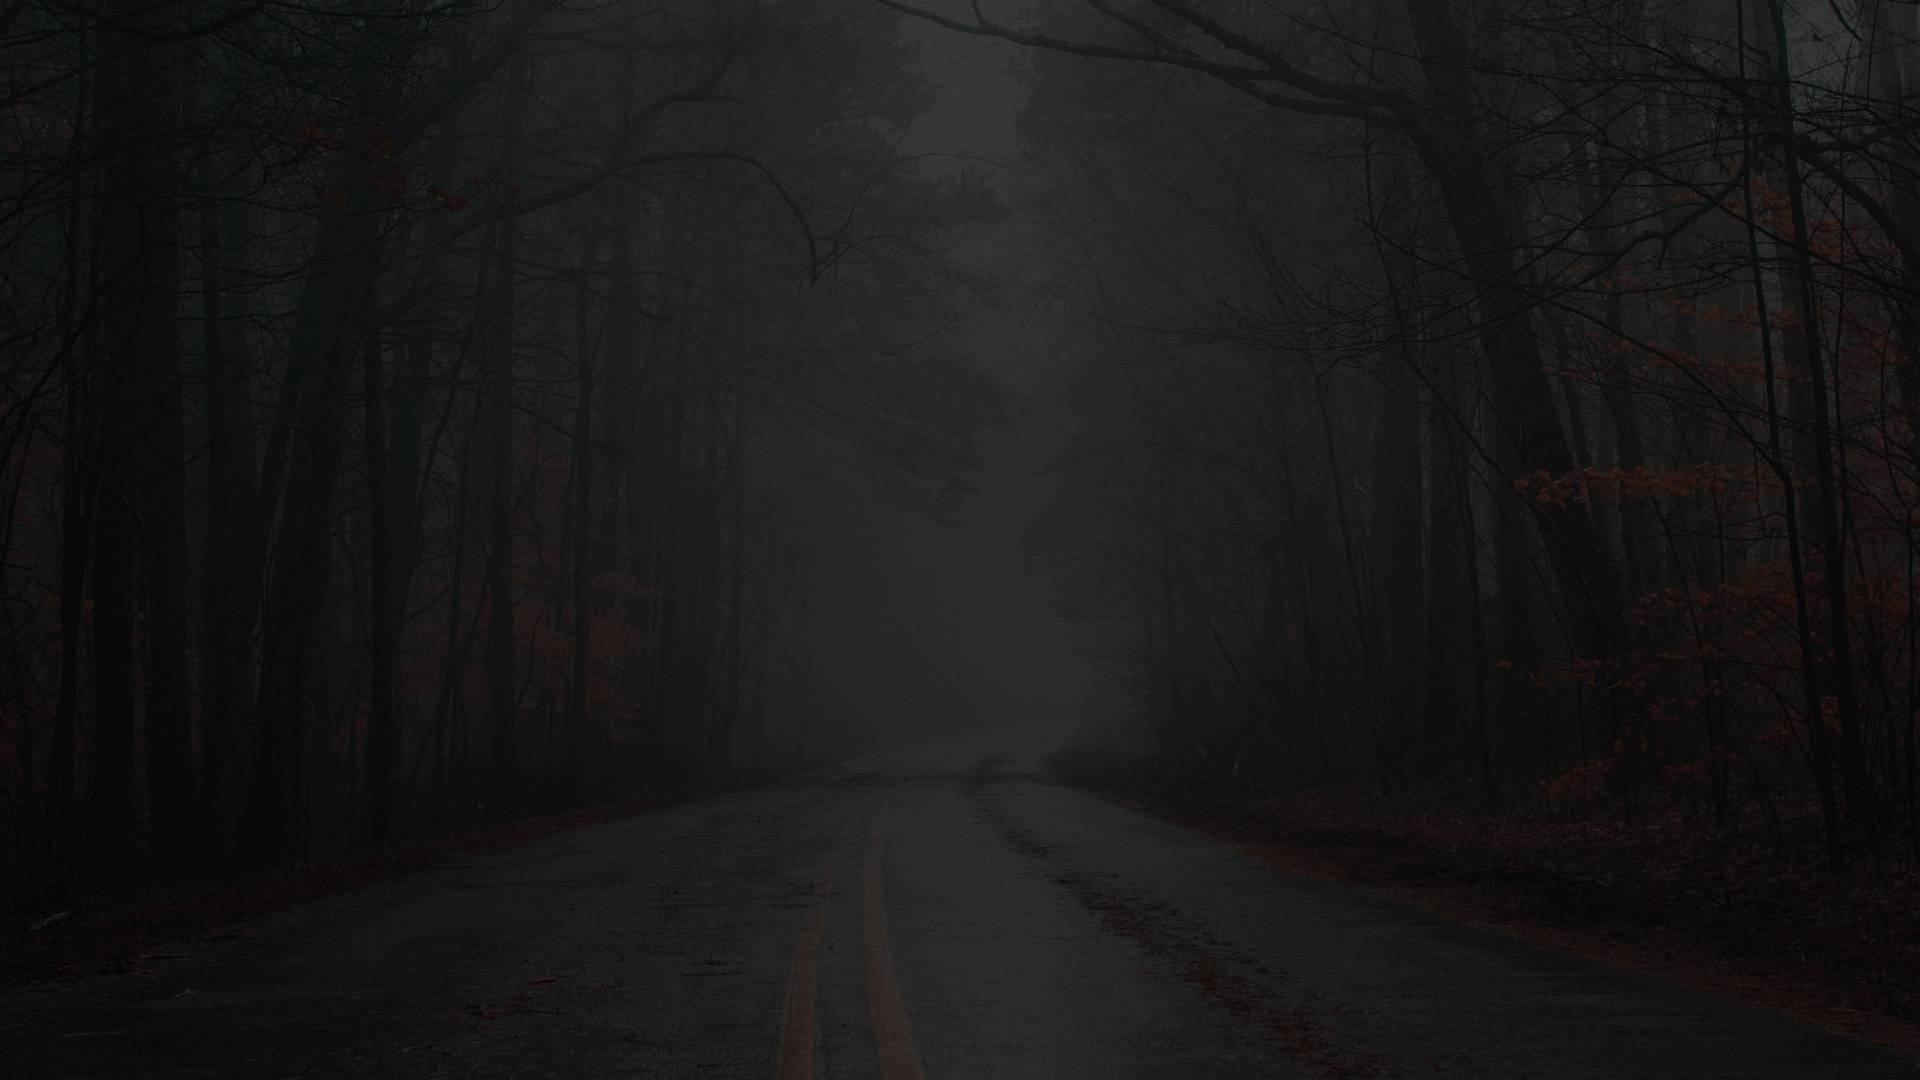
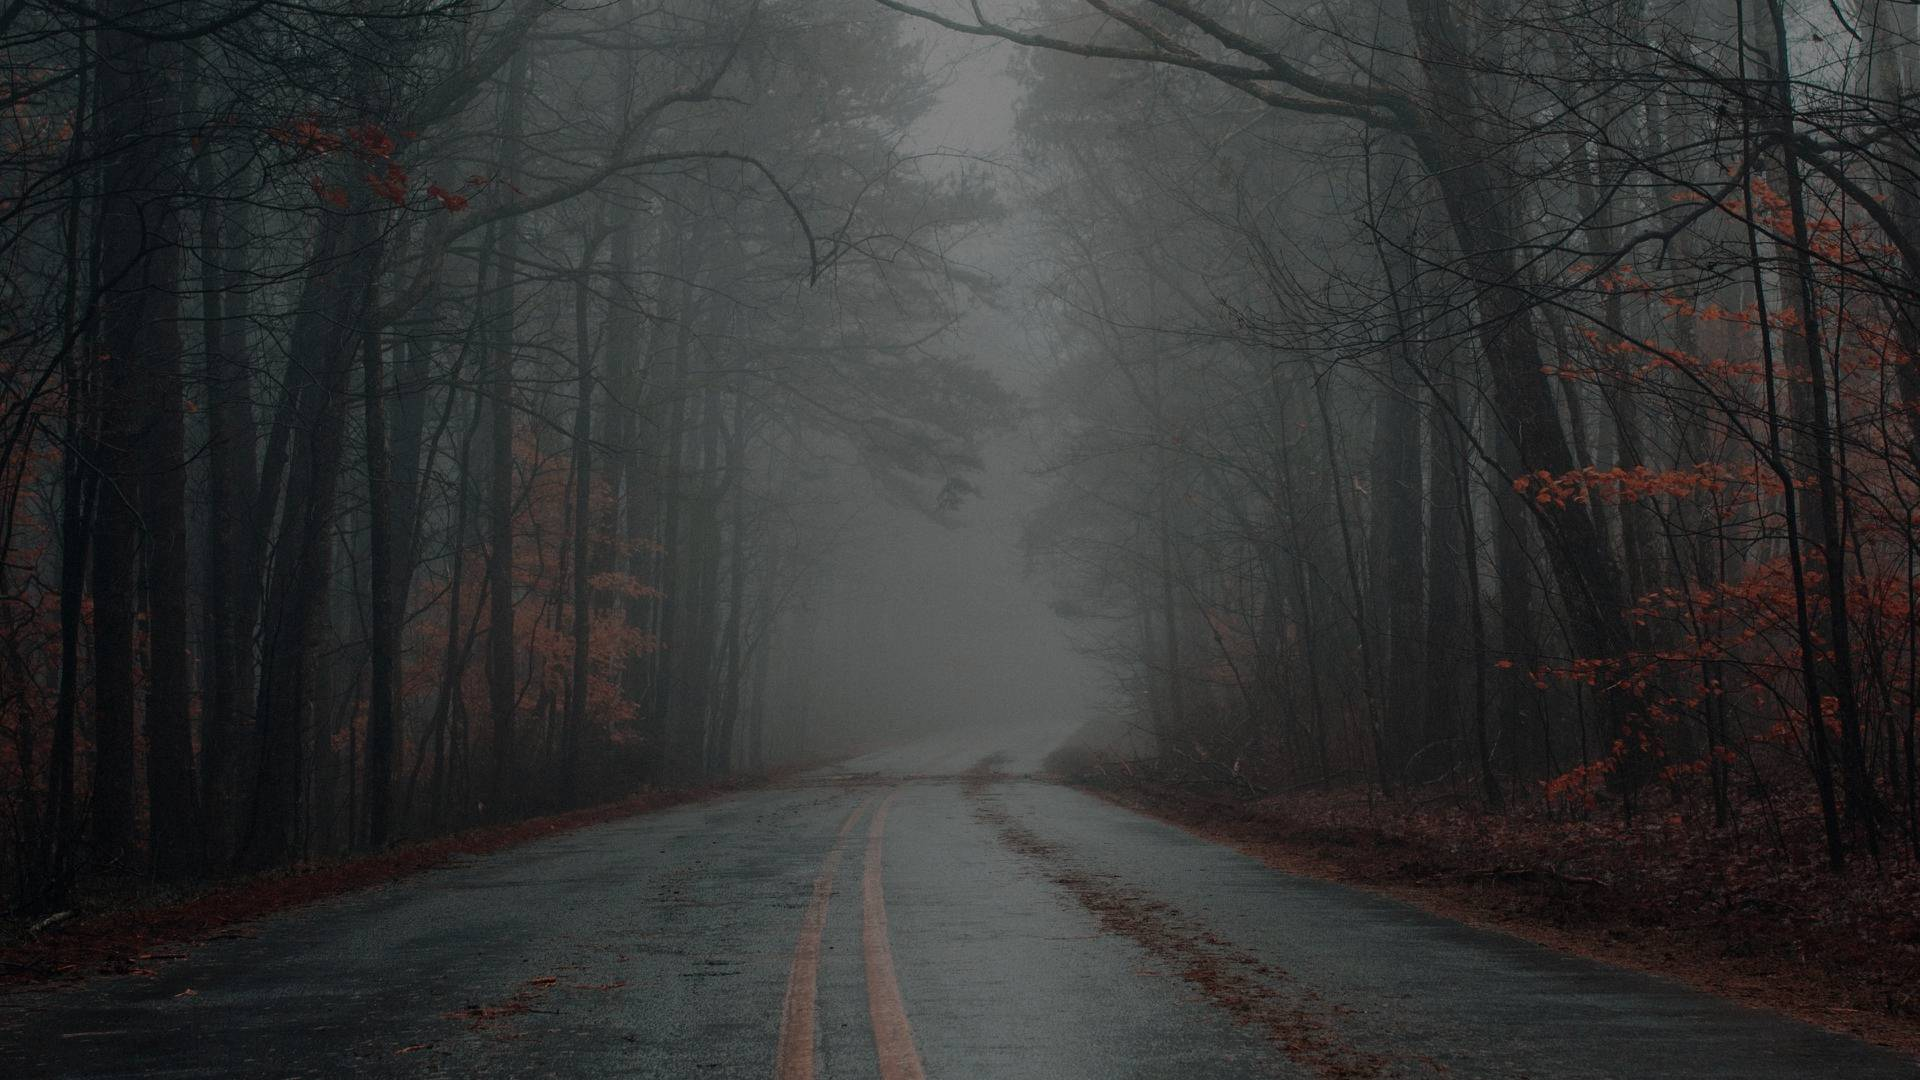
refactor: refactor html - add h1-h4

diff --git a/index.html b/index.html
@@ -92,6 +92,7 @@
         <p class="title color_dark">_Portfolio_</p>
         <div class="portfolio-projects-container">
           <section class="project timeset row">
+            <h3 class="visually-hidden">Web App Timeset</h3>
             <div class="project-link-description-container row">
               <a class="project-link-container row" href="https://vitalisantalau.github.io/Time-set/" target="_blank">
                 <div class="project-title">Timeset</div>
@@ -115,6 +116,7 @@
             <a class="project-code-link" href="https://github.com/VitaliSantalau/Time-set" target="_blank">Code</a>
           </section>
           <section class="project video-player row">
+            <h3 class="visually-hidden">Web App Video-player</h3>
             <div class="project-link-description-container row">
               <a class="project-link-container row" href="https://vitalisantalau.github.io/Video-player/" target="_blank">
                 <div class="project-title">Video player</div>
@@ -133,6 +135,7 @@
             <a class="project-code-link" href="https://github.com/VitaliSantalau/Video-player" target="_blank">Code</a>
           </section>
           <section class="code row">
+            <h3 class="visually-hidden">code example</h3>
             <div class="code-container row">
               <pre>
                 <code class="javascript">
@@ -160,36 +163,36 @@ function arrayDiff(a, b) {
             <h3 class="profile-section-title">Skills</h3>
             <div class="profile-section-cols">
               <ul>
-                <!-- <h4 class="profile-section-subtitle">&bull; main:</h4> -->
+                <h4 class="visually-hidden">Main skills</h4>
                   <li>- JavaScript</li>
                   <li>- HTML5</li>
                   <li>- CSS3, Sass</li>
               </ul>
               <ul>
-                <!-- <h4 class="profile-section-subtitle">&bull; have experience:</h4>        -->
+                <h4 class="visually-hidden">Relaited skills (have experience)</h4>
                 <li>- React, Gatsby, Next.js</li>
                 <li>- Redux</li>   
                 <li>- Git, Github</li>
                 <li>- Figma</li>
               </ul>
             </div>
-        </section>
+          </section>
           <section class="profile-section-container">
             <h3 class="profile-section-title">Education</h3>
             <div class="profile-section-cols">
               <ul>
-                <!-- <h4 class="profile-section-subtitle">&bull; common:</h4> -->
+                <h4 class="visually-hidden">Common education</h4>
                   <li>
                     - 2004 / Industrial Technology /<br>
-                     State Technical University named P.O.Sukhoi
+                      State Technical University named P.O.Sukhoi
                   </li>
                   <li>
                     - 2009 / Industrial management /<br>
-                     State Technical University named P.O.Sukhoi
+                      State Technical University named P.O.Sukhoi
                   </li>
               </ul>
               <ul>
-                <!-- <h4 class="profile-section-subtitle">&bull; developer:</h4> -->
+                <h4 class="visually-hidden">Developer education</h4>
                 <li>- Codecademy, HTMLAcademy, Hexlet, etc...</li>
                 <li>- recent course - “JavaScript/DOM/UI” for programmers 
                   <a href="https://vitalisantalau.github.io/cv/assets/certificates/JavaScript-DOM-UI.jpg" target="_blank">certificate</a>
@@ -200,27 +203,27 @@ function arrayDiff(a, b) {
                 <li>- current course - RSSchool, JavaScript/Front-end 2021Q3, Stage#1</li>                 
               </ul>
             </div>
-        </section>
-        <section class="profile-section-container">
-          <h3 class="profile-section-title">Languages</h3>
-          <div class="profile-section-cols">
-            <ul>       
-              <li>- English (level B1+)
-                <ul>
-                  <li>– passed an English course, level A2 (Gomel, Belarus)</li>
-                  <li>– passed an Intensive General English course, level A2 (Edinburgh, Scotland) 
-                    <a href="https://vitalisantalau.github.io/cv/assets/certificates/Language-Institute-%20Edinburgh-2018.jpg" target="_blank">certificate</a>
-                  </li>
-                  <li>– passed a General English course, level C1 (Edinburgh, Scotland) 
-                    <a href="https://vitalisantalau.github.io/cv/assets/certificates/Language-Institute-Edinbirgh-2020.jpg" target="_blank">certificate</a>
-                  </li>
-                  <li>– taking lessons with a tutor</li>
-                </ul>
-              </li>
-              <li>- German (intro level A1/A2)</li>   
-            </ul>
-          </div>
-      </section>
+          </section>
+          <section class="profile-section-container">
+            <h3 class="profile-section-title">Languages</h3>
+            <div class="profile-section-cols">
+              <ul>       
+                <li>- English (level B1+)
+                  <ul>
+                    <li>– passed an English course, level A2 (Gomel, Belarus)</li>
+                    <li>– passed an Intensive General English course, level A2 (Edinburgh, Scotland) 
+                      <a href="https://vitalisantalau.github.io/cv/assets/certificates/Language-Institute-%20Edinburgh-2018.jpg" target="_blank">certificate</a>
+                    </li>
+                    <li>– passed a General English course, level C1 (Edinburgh, Scotland) 
+                      <a href="https://vitalisantalau.github.io/cv/assets/certificates/Language-Institute-Edinbirgh-2020.jpg" target="_blank">certificate</a>
+                    </li>
+                    <li>– taking lessons with a tutor</li>
+                  </ul>
+                </li>
+                <li>- German (intro level A1/A2)</li>   
+              </ul>
+            </div>
+          </section>
         </div>
       </div>
     </article>

diff --git a/style.css b/style.css
@@ -106,10 +106,9 @@ body {
   font-family: var(--font-main);
 }
 
-/* MAIN */
+/* main */
 .container-top-page {
-  background: linear-gradient(to top, var(--color-back-section), var(--color-back-section)), url("./assets/images/back(2).jpg");
-  /* background-image: url("assets/images/back(2).jpg"); */
+  background: linear-gradient(to top, var(--color-back-section), var(--color-back-section)), url("./assets/images/back.jpg");
   background-repeat: no-repeat;
   background-position: top;
   background-size: cover;
@@ -245,14 +244,13 @@ header {
   margin: 3rem 0;
   text-align: justify;
   font-size: 1.8rem;
-  font-weight: 100;
+  font-weight: 300;
   line-height: 2.5rem;
   letter-spacing: 0.2rem;
 }
 
 /* portfolio */
 #portfolio {
-  /* background-color: var(--color-back-light); */
   background: linear-gradient(to top, var(--color-back-section), var(--color-back-light));
 }
 
@@ -394,13 +392,11 @@ header {
 
 /* profile */
 #profile {
-  background: linear-gradient(to top, var(--color-back-section), var(--color-back-section)), url("./assets/images/back(2).jpg");
   color: var(--color-light);
-  /* background-image: url("assets/images/back(2).jpg"); */
+  background: linear-gradient(to top, var(--color-back-section), var(--color-back-section)), url("./assets/images/back.jpg");
   background-repeat: no-repeat;
   background-position: center;
   background-size: cover;
-  /* background-color: var(--color-back-project-dark); */
 }
 
 .profile {
@@ -408,12 +404,10 @@ header {
 }
 
 .profile a {
-  /* text-transform: uppercase; */
   font-weight: 300;
   letter-spacing: 0.3rem;
   color: var(--color-light);
   text-shadow: -0.5rem 0.5rem 0.5rem var(--color-red);
-  /* text-shadow: var(--color-dark) 1px 1px 2px; */
 }
 
 .profile-section-container {
@@ -458,7 +452,7 @@ header {
 
 .profile-section-cols li {
   margin-left: 2rem;
-  font-weight: 100;
+  font-weight: 300;
 }
 
 /* video resume*/
@@ -484,12 +478,10 @@ header {
   padding-bottom: 1rem;
   font-size: 3rem;
   color: var(--color-light);
-  background: linear-gradient(to top, var(--color-back-section), var(--color-back-section)), url("./assets/images/back(2).jpg");
-  /* background-image: url("assets/images/back(2).jpg"); */
+  background: linear-gradient(to top, var(--color-back-section), var(--color-back-section)), url("./assets/images/back.jpg");
   background-repeat: no-repeat;
   background-position: bottom;
   background-size: cover;
-  /* background-color: var(--color-back-project-dark); */
 }
 
 .logo-github {
